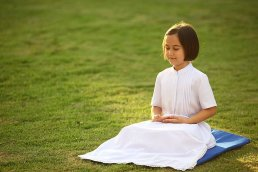
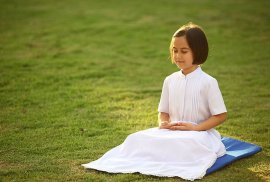
Use google optimized images for homepage news

diff --git a/index-fr.html b/index-fr.html
@@ -172,7 +172,7 @@
                     <i class="fa fa-plus fa-3x"></i>
                   </div>
                 </div>
-                <img class="img-fluid img-clickable" src="img/news/3.jpg" srcset="img/news/3.jpg 2x" alt="News card">
+                <img class="img-fluid img-clickable" src="img/news/3-desktop.jpg" srcset="img/news/3.jpg 2x" alt="News card">
               </a>
             </div>
             <div class="col-md-8">
@@ -192,7 +192,7 @@
                     <i class="fa fa-plus fa-3x"></i>
                   </div>
                 </div>
-                <img class="img-fluid img-clickable" src="img/news/2.jpg" srcset="img/news/2.jpg 2x" alt="News card">
+                <img class="img-fluid img-clickable" src="img/news/2-desktop.jpg" srcset="img/news/2.jpg 2x" alt="News card">
               </a>
             </div>
             <div class="col-md-8">
@@ -212,7 +212,7 @@
                     <i class="fa fa-plus fa-3x"></i>
                   </div>
                 </div>
-                <img class="img-fluid img-clickable" src="img/news/1.jpg" srcset="img/news/1.jpg 2x" alt="News card">
+                <img class="img-fluid img-clickable" src="img/news/1-desktop.jpg" srcset="img/news/1.jpg 2x" alt="News card">
               </a>
             </div>
             <div class="col-md-8">

diff --git a/index.html b/index.html
@@ -174,7 +174,7 @@
                     <i class="fa fa-plus fa-3x"></i>
                   </div>
                 </div>
-                <img class="img-fluid img-clickable" src="img/news/3.jpg" srcset="img/news/3.jpg 2x" alt="News card">
+                <img class="img-fluid img-clickable" src="img/news/3-desktop.jpg" srcset="img/news/3.jpg 2x" alt="News card">
               </a>
             </div>
             <div class="col-md-8">
@@ -194,7 +194,7 @@
                     <i class="fa fa-plus fa-3x"></i>
                   </div>
                 </div>
-                <img class="img-fluid img-clickable" src="img/news/2.jpg" srcset="img/news/2.jpg 2x" alt="News card">
+                <img class="img-fluid img-clickable" src="img/news/2-desktop.jpg" srcset="img/news/2.jpg 2x" alt="News card">
               </a>
             </div>
             <div class="col-md-8">
@@ -214,7 +214,7 @@
                     <i class="fa fa-plus fa-3x"></i>
                   </div>
                 </div>
-                <img class="img-fluid img-clickable" src="img/news/1.jpg" srcset="img/news/1.jpg 2x" alt="News card">
+                <img class="img-fluid img-clickable" src="img/news/1-desktop.jpg" srcset="img/news/1.jpg 2x" alt="News card">
               </a>
             </div>
             <div class="col-md-8">
